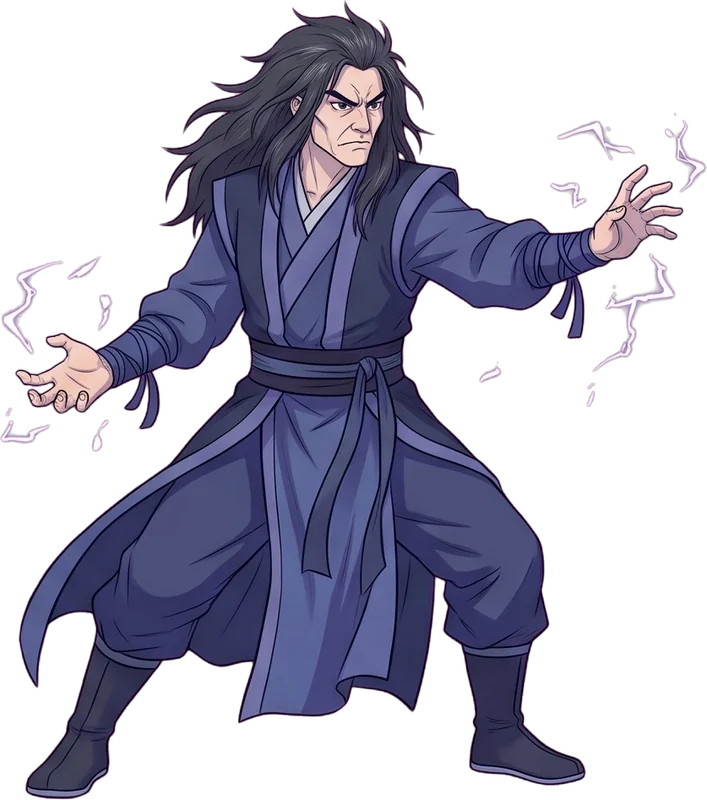
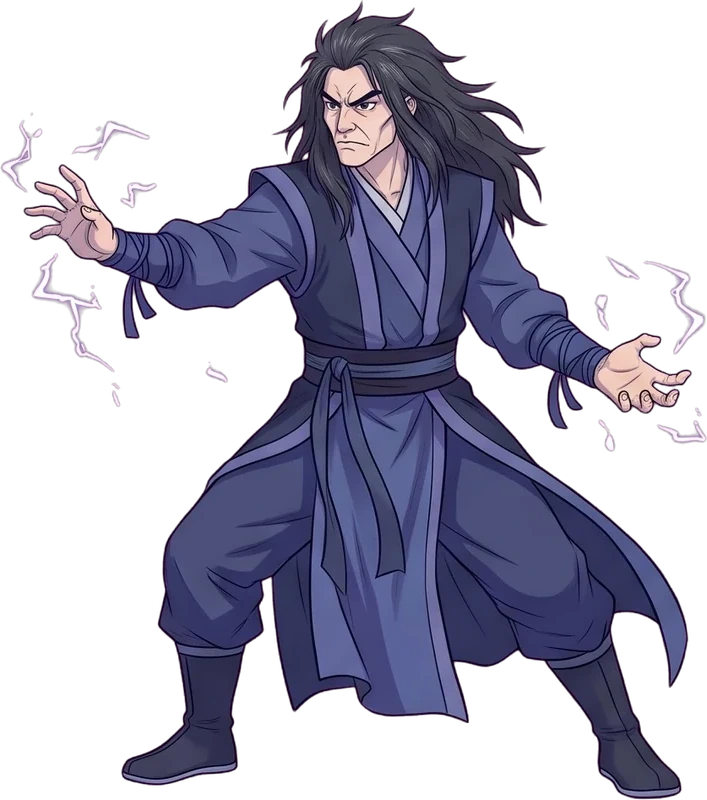
最終版136:所有敵人一律面向左(守山長老、九尾天狐、滅世火鳳翻轉;一般戰鬥移除多餘翻轉)
Claude-Session: https://claude.ai/code/session_01Eudv1bj25nFF4NszqJcvVs

diff --git a/index.html b/index.html
@@ -6960,7 +6960,7 @@ div.w-14:has(>.gi.gt){width:4.2rem;height:5.25rem}
   tArt = function (t, lock) { return GEN2[t.id] ? img(t.id, 'gt' + (lock ? ' gl' : '')) : ''; };
 })();
 
-const GEN3={"A0": "assets/GEN3/A0.webp?v=5607b08f", "A1": "assets/GEN3/A1.webp?v=c5097f82", "A2": "assets/GEN3/A2.webp?v=65906991", "A3": "assets/GEN3/A3.webp?v=ae27b3df", "A4": "assets/GEN3/A4.webp?v=1bfd872b", "A5": "assets/GEN3/A5.webp?v=528a4cf1", "A6": "assets/GEN3/A6.webp?v=d1795a92", "A7": "assets/GEN3/A7.webp?v=ec4f2db8", "T": "assets/GEN3/T.webp?v=ff90ccc1", "sk_sword": "assets/GEN3/sk_sword.webp?v=330c3c01", "sk_flow": "assets/GEN3/sk_flow.webp?v=f8713604", "sk_fire": "assets/GEN3/sk_fire.webp?v=ccfbc821", "sk_ice": "assets/GEN3/sk_ice.webp?v=d13956c6", "sk_guard": "assets/GEN3/sk_guard.webp?v=773bc330", "sk_heal": "assets/GEN3/sk_heal.webp?v=e1132e0d", "sk_thunder": "assets/GEN3/sk_thunder.webp?v=a58f89c1", "sk_blood": "assets/GEN3/sk_blood.webp?v=88508005", "sk_rage": "assets/GEN3/sk_rage.webp?v=be4f1276", "sk_swords": "assets/GEN3/sk_swords.webp?v=85881b44", "sk_quake": "assets/GEN3/sk_quake.webp?v=d8bc28e5", "sk_god": "assets/GEN3/sk_god.webp?v=44437ada", "sk_void": "assets/GEN3/sk_void.webp?v=4ec8adea", "sk_chaos": "assets/GEN3/sk_chaos.webp?v=79cd6bec", "S0": "assets/GEN3/S0.webp?v=20627470", "S1": "assets/GEN3/S1.webp?v=e62cd051", "S2": "assets/GEN3/S2.webp?v=b5e3e654", "M01": "assets/GEN3/M01.webp?v=287750db", "M02": "assets/GEN3/M02.webp?v=e9b9ad3f", "M03": "assets/GEN3/M03.webp?v=1310a148", "M04": "assets/GEN3/M04.webp?v=fbff499e", "M05": "assets/GEN3/M05.webp?v=61614376", "M06": "assets/GEN3/M06.webp?v=a006d08f", "M07": "assets/GEN3/M07.webp?v=09626d1e", "M08": "assets/GEN3/M08.webp?v=718aa370", "M09": "assets/GEN3/M09.webp?v=921d696a", "M10": "assets/GEN3/M10.webp?v=b8993edc", "M11": "assets/GEN3/M11.webp?v=ba05c495", "M12": "assets/GEN3/M12.webp?v=1088e247", "M13": "assets/GEN3/M13.webp?v=50d342c6", "M14": "assets/GEN3/M14.webp?v=0ef08f9f", "M15": "assets/GEN3/M15.webp?v=20459708", "M16": "assets/GEN3/M16.webp?v=748b6db0", "M17": "assets/GEN3/M17.webp?v=a48dbd91", "M18": "assets/GEN3/M18.webp?v=ef77529f", "K1": "assets/GEN3/K1.webp?v=f05b12f2", "K2": "assets/GEN3/K2.webp?v=12d35678", "K3": "assets/GEN3/K3.webp?v=432cff96", "K4": "assets/GEN3/K4.webp?v=5ec5b8bf", "K5": "assets/GEN3/K5.webp?v=a6909266", "K6": "assets/GEN3/K6.webp?v=92efc90f", "K7": "assets/GEN3/K7.webp?v=d2271abf", "K8": "assets/GEN3/K8.webp?v=5fc9f16c", "W1": "assets/GEN3/W1.webp?v=5cd5b0c9", "W2": "assets/GEN3/W2.webp?v=bdefedc1", "W3": "assets/GEN3/W3.webp?v=b71bea45", "W4": "assets/GEN3/W4.webp?v=9268bc2f", "W5": "assets/GEN3/W5.webp?v=0fd1dde0", "W6": "assets/GEN3/W6.webp?v=04b75816", "W7": "assets/GEN3/W7.webp?v=55d47994", "W8": "assets/GEN3/W8.webp?v=e576cb04"};
+const GEN3={"A0": "assets/GEN3/A0.webp?v=5607b08f", "A1": "assets/GEN3/A1.webp?v=c5097f82", "A2": "assets/GEN3/A2.webp?v=65906991", "A3": "assets/GEN3/A3.webp?v=ae27b3df", "A4": "assets/GEN3/A4.webp?v=1bfd872b", "A5": "assets/GEN3/A5.webp?v=528a4cf1", "A6": "assets/GEN3/A6.webp?v=d1795a92", "A7": "assets/GEN3/A7.webp?v=ec4f2db8", "T": "assets/GEN3/T.webp?v=ff90ccc1", "sk_sword": "assets/GEN3/sk_sword.webp?v=330c3c01", "sk_flow": "assets/GEN3/sk_flow.webp?v=f8713604", "sk_fire": "assets/GEN3/sk_fire.webp?v=ccfbc821", "sk_ice": "assets/GEN3/sk_ice.webp?v=d13956c6", "sk_guard": "assets/GEN3/sk_guard.webp?v=773bc330", "sk_heal": "assets/GEN3/sk_heal.webp?v=e1132e0d", "sk_thunder": "assets/GEN3/sk_thunder.webp?v=a58f89c1", "sk_blood": "assets/GEN3/sk_blood.webp?v=88508005", "sk_rage": "assets/GEN3/sk_rage.webp?v=be4f1276", "sk_swords": "assets/GEN3/sk_swords.webp?v=85881b44", "sk_quake": "assets/GEN3/sk_quake.webp?v=d8bc28e5", "sk_god": "assets/GEN3/sk_god.webp?v=44437ada", "sk_void": "assets/GEN3/sk_void.webp?v=4ec8adea", "sk_chaos": "assets/GEN3/sk_chaos.webp?v=79cd6bec", "S0": "assets/GEN3/S0.webp?v=20627470", "S1": "assets/GEN3/S1.webp?v=e62cd051", "S2": "assets/GEN3/S2.webp?v=b5e3e654", "M01": "assets/GEN3/M01.webp?v=287750db", "M02": "assets/GEN3/M02.webp?v=e9b9ad3f", "M03": "assets/GEN3/M03.webp?v=1310a148", "M04": "assets/GEN3/M04.webp?v=fbff499e", "M05": "assets/GEN3/M05.webp?v=61614376", "M06": "assets/GEN3/M06.webp?v=a006d08f", "M07": "assets/GEN3/M07.webp?v=09626d1e", "M08": "assets/GEN3/M08.webp?v=718aa370", "M09": "assets/GEN3/M09.webp?v=921d696a", "M10": "assets/GEN3/M10.webp?v=b8993edc", "M11": "assets/GEN3/M11.webp?v=ba05c495", "M12": "assets/GEN3/M12.webp?v=1088e247", "M13": "assets/GEN3/M13.webp?v=50d342c6", "M14": "assets/GEN3/M14.webp?v=0ef08f9f", "M15": "assets/GEN3/M15.webp?v=20459708", "M16": "assets/GEN3/M16.webp?v=748b6db0", "M17": "assets/GEN3/M17.webp?v=a48dbd91", "M18": "assets/GEN3/M18.webp?v=ef77529f", "K1": "assets/GEN3/K1.webp?v=f05b12f2", "K2": "assets/GEN3/K2.webp?v=12d35678", "K3": "assets/GEN3/K3.webp?v=432cff96", "K4": "assets/GEN3/K4.webp?v=5ec5b8bf", "K5": "assets/GEN3/K5.webp?v=a6909266", "K6": "assets/GEN3/K6.webp?v=92efc90f", "K7": "assets/GEN3/K7.webp?v=d2271abf", "K8": "assets/GEN3/K8.webp?v=5fc9f16c", "W1": "assets/GEN3/W1.webp?v=271e16c1", "W2": "assets/GEN3/W2.webp?v=bdefedc1", "W3": "assets/GEN3/W3.webp?v=b71bea45", "W4": "assets/GEN3/W4.webp?v=9268bc2f", "W5": "assets/GEN3/W5.webp?v=0fd1dde0", "W6": "assets/GEN3/W6.webp?v=04b75816", "W7": "assets/GEN3/W7.webp?v=55d47994", "W8": "assets/GEN3/W8.webp?v=3801709f"};
 
 /* ===== v7.6:地圖/戰鬥背景/角色/妖魔/神通改用生成圖 ===== */
 (function () {
@@ -6996,7 +6996,7 @@ const GEN3={"A0": "assets/GEN3/A0.webp?v=5607b08f", "A1": "assets/GEN3/A1.webp?v
     const p = stageEl('bs-p'), svg = p && p.querySelector('svg');
     if (svg) svg.outerHTML = `<img id="bs-ps" class="bs-ps" src="${G.S0}" alt="" draggable="false">`;
     const mk = monKey(B.monster), me = s.querySelector('.bs-memo');
-    if (me && mk) me.innerHTML = `<img class="bs-mi ${mk[0].toLowerCase()}${['K1', 'K7', 'M06', 'M07', 'M08', 'M10', 'W5', 'W8'].includes(mk) ? ' fl87' : ''}" src="${G[mk]}" alt="" draggable="false">`;
+    if (me && mk) me.innerHTML = `<img class="bs-mi ${mk[0].toLowerCase()}${['M06', 'M07', 'M10'].includes(mk) ? ' fl87' : ''}" src="${G[mk]}" alt="" draggable="false">`;
   };
   const pose = (n, ms) => { const im = stageEl('bs-ps'); if (!im) return; im.src = G[n]; clearTimeout(pose.t); pose.t = setTimeout(() => { const i2 = stageEl('bs-ps'); if (i2) i2.src = G.S0; }, ms / (state.battleSpeed || 1) + 60); };
   XT.fxAct76 = _pa => function (sk) { _pa.apply(this, arguments); if (!stageOn()) return; if (!sk || ['atk', 'burn', 'stun', 'drain'].includes(sk.type)) pose('S1', 560); };
@@ -14649,7 +14649,7 @@ header .flex.justify-between.mb-0\\.5{margin-bottom:1px!important}
 </script>
 <script>
 /* ===== v45:生成圖接線(怪物・宗門功法/信物・效果圖示・器紋石) ===== */
-window.A45={"ef_atk": "assets/A45/ef_atk.webp?v=964164cd", "ef_cd": "assets/A45/ef_cd.webp?v=bbcd2710", "ef_crit": "assets/A45/ef_crit.webp?v=da1df026", "ef_critd": "assets/A45/ef_critd.webp?v=a3d2c863", "ef_def": "assets/A45/ef_def.webp?v=cc41c032", "ef_dodge": "assets/A45/ef_dodge.webp?v=1cc3b13c", "ef_hp": "assets/A45/ef_hp.webp?v=25d8b6fb", "ef_ls": "assets/A45/ef_ls.webp?v=976955f6", "ef_qi": "assets/A45/ef_qi.webp?v=802688e4", "ef_skill": "assets/A45/ef_skill.webp?v=0af66ed2", "ef_stone": "assets/A45/ef_stone.webp?v=3c46a1e2", "gu": "assets/A45/gu.webp?v=191949ff", "j1": "assets/A45/j1.webp?v=3aec3560", "j2": "assets/A45/j2.webp?v=e6337b47", "j3": "assets/A45/j3.webp?v=d9cb4aef", "j4": "assets/A45/j4.webp?v=c046a2aa", "j5": "assets/A45/j5.webp?v=e563e74c", "j6": "assets/A45/j6.webp?v=70579031", "j7": "assets/A45/j7.webp?v=ad1b4171", "j8": "assets/A45/j8.webp?v=1c697d4a", "j9": "assets/A45/j9.webp?v=6a0a5731", "jy_cmd": "assets/A45/jy_cmd.webp?v=fb62097b", "jy_demon": "assets/A45/jy_demon.webp?v=b191ee64", "jy_guard": "assets/A45/jy_guard.webp?v=5d603746", "jy_rogue": "assets/A45/jy_rogue.webp?v=103a33a0", "mind": "assets/A45/mind.webp?v=7b12ba09", "situ": "assets/A45/situ.webp?v=bbe8ef8f", "sk_s_bc": "assets/A45/sk_s_bc.webp?v=e245af85", "sk_s_by": "assets/A45/sk_s_by.webp?v=b8288d4c", "sk_s_cy": "assets/A45/sk_s_cy.webp?v=2ccc84b6", "sk_s_dd": "assets/A45/sk_s_dd.webp?v=d179c8fd", "sk_s_dl": "assets/A45/sk_s_dl.webp?v=b3bad2b7", "sk_s_ds": "assets/A45/sk_s_ds.webp?v=1df50af9", "sk_s_dz": "assets/A45/sk_s_dz.webp?v=b048e4df", "sk_s_fx": "assets/A45/sk_s_fx.webp?v=7b7380f5", "sk_s_gc": "assets/A45/sk_s_gc.webp?v=dae25514", "sk_s_hd": "assets/A45/sk_s_hd.webp?v=99a7811b", "sk_s_jg": "assets/A45/sk_s_jg.webp?v=27ff85a0", "sk_s_jy": "assets/A45/sk_s_jy.webp?v=0dbef875", "sk_s_lh": "assets/A45/sk_s_lh.webp?v=0a9695ba", "sk_s_lx": "assets/A45/sk_s_lx.webp?v=0db3de80", "sk_s_lx2": "assets/A45/sk_s_lx2.webp?v=98c8425c", "sk_s_ms": "assets/A45/sk_s_ms.webp?v=126bf90e", "sk_s_nd": "assets/A45/sk_s_nd.webp?v=4e1e5c67", "sk_s_pl": "assets/A45/sk_s_pl.webp?v=9ab4e653", "sk_s_pt": "assets/A45/sk_s_pt.webp?v=1ee6435b", "sk_s_qy": "assets/A45/sk_s_qy.webp?v=be45df1b", "sk_s_rs": "assets/A45/sk_s_rs.webp?v=520138e7", "sk_s_sh": "assets/A45/sk_s_sh.webp?v=65a5a0a3", "sk_s_sx": "assets/A45/sk_s_sx.webp?v=92cf0f02", "sk_s_tb": "assets/A45/sk_s_tb.webp?v=7e24226a", "sk_s_tc": "assets/A45/sk_s_tc.webp?v=be83a286", "sk_s_tj": "assets/A45/sk_s_tj.webp?v=487f8967", "sk_s_tj2": "assets/A45/sk_s_tj2.webp?v=e9c5a0ba", "sk_s_tx": "assets/A45/sk_s_tx.webp?v=7690e37c", "sk_s_wf": "assets/A45/sk_s_wf.webp?v=1e2825a0", "sk_s_ws": "assets/A45/sk_s_ws.webp?v=d7231e57", "sk_s_xc": "assets/A45/sk_s_xc.webp?v=375adb95", "sk_s_xm": "assets/A45/sk_s_xm.webp?v=2af8c32f", "sk_s_xs": "assets/A45/sk_s_xs.webp?v=1f386bb5", "sk_s_xy": "assets/A45/sk_s_xy.webp?v=215c93c9", "sk_s_yc": "assets/A45/sk_s_yc.webp?v=0fd94347", "sk_s_yg": "assets/A45/sk_s_yg.webp?v=6dfac63c", "sk_s_ym": "assets/A45/sk_s_ym.webp?v=382abe0b", "sk_s_zj": "assets/A45/sk_s_zj.webp?v=f1fa172a", "sk_s_zx": "assets/A45/sk_s_zx.webp?v=acd98249", "sr0": "assets/A45/sr0.webp?v=a86b9b19", "sr1": "assets/A45/sr1.webp?v=506be0a0", "sr2": "assets/A45/sr2.webp?v=263caa64", "sr3": "assets/A45/sr3.webp?v=f351d4cf", "sr4": "assets/A45/sr4.webp?v=191585c5", "sr5": "assets/A45/sr5.webp?v=670564a6", "sr6": "assets/A45/sr6.webp?v=78ac99de", "sr7": "assets/A45/sr7.webp?v=2454d5c2", "tk_s_bc": "assets/A45/tk_s_bc.webp?v=b4195724", "tk_s_by": "assets/A45/tk_s_by.webp?v=89777b27", "tk_s_cy": "assets/A45/tk_s_cy.webp?v=68505574", "tk_s_dd": "assets/A45/tk_s_dd.webp?v=7662389d", "tk_s_dl": "assets/A45/tk_s_dl.webp?v=b257c47e", "tk_s_ds": "assets/A45/tk_s_ds.webp?v=860aaf47", "tk_s_dz": "assets/A45/tk_s_dz.webp?v=ff296ace", "tk_s_fx": "assets/A45/tk_s_fx.webp?v=d9fa681b", "tk_s_gc": "assets/A45/tk_s_gc.webp?v=6d39de4a", "tk_s_hd": "assets/A45/tk_s_hd.webp?v=aceffb4b", "tk_s_jg": "assets/A45/tk_s_jg.webp?v=c965e331", "tk_s_jy": "assets/A45/tk_s_jy.webp?v=1bd43353", "tk_s_lh": "assets/A45/tk_s_lh.webp?v=37315788", "tk_s_lx": "assets/A45/tk_s_lx.webp?v=be7c317c", "tk_s_lx2": "assets/A45/tk_s_lx2.webp?v=56384945", "tk_s_ms": "assets/A45/tk_s_ms.webp?v=a66be31f", "tk_s_nd": "assets/A45/tk_s_nd.webp?v=19252a5d", "tk_s_pl": "assets/A45/tk_s_pl.webp?v=c32ba6a5", "tk_s_pt": "assets/A45/tk_s_pt.webp?v=2ef87bdf", "tk_s_qy": "assets/A45/tk_s_qy.webp?v=3330ba0d", "tk_s_rs": "assets/A45/tk_s_rs.webp?v=30e60a58", "tk_s_sh": "assets/A45/tk_s_sh.webp?v=47014a2c", "tk_s_sx": "assets/A45/tk_s_sx.webp?v=9191a53d", "tk_s_tb": "assets/A45/tk_s_tb.webp?v=8417c545", "tk_s_tc": "assets/A45/tk_s_tc.webp?v=6d42e374", "tk_s_tj": "assets/A45/tk_s_tj.webp?v=8699518e", "tk_s_tj2": "assets/A45/tk_s_tj2.webp?v=f6eefd1e", "tk_s_tx": "assets/A45/tk_s_tx.webp?v=eca12e42", "tk_s_wf": "assets/A45/tk_s_wf.webp?v=7855a197", "tk_s_ws": "assets/A45/tk_s_ws.webp?v=f8a690a5", "tk_s_xc": "assets/A45/tk_s_xc.webp?v=e3944d17", "tk_s_xm": "assets/A45/tk_s_xm.webp?v=ddf4d623", "tk_s_xs": "assets/A45/tk_s_xs.webp?v=510b5c85", "tk_s_xy": "assets/A45/tk_s_xy.webp?v=5818c9a3", "tk_s_yc": "assets/A45/tk_s_yc.webp?v=71d84898", "tk_s_yg": "assets/A45/tk_s_yg.webp?v=5be5dd89", "tk_s_ym": "assets/A45/tk_s_ym.webp?v=89766431", "tk_s_zj": "assets/A45/tk_s_zj.webp?v=d3368f86", "tk_s_zx": "assets/A45/tk_s_zx.webp?v=46e308fb", "tr_body": "assets/A45/tr_body.webp?v=9d7fabec", "tr_magic": "assets/A45/tr_magic.webp?v=c629df5e", "tr_pill": "assets/A45/tr_pill.webp?v=93694988", "tr_sword": "assets/A45/tr_sword.webp?v=a1f295d4", "ui_adv": "assets/A45/ui_adv.webp?v=84c0caef", "ui_look": "assets/A45/ui_look.webp?v=7696a50d", "ui_map": "assets/A45/ui_map.webp?v=23ac3d19", "ui_rn": "assets/A45/ui_rn.webp?v=d208b194", "ui_set": "assets/A45/ui_set.webp?v=c6d18e5f", "ui_shield": "assets/A45/ui_shield.webp?v=609dfbd5", "yx0": "assets/A45/yx0.webp?v=3bbeabca", "yx1": "assets/A45/yx1.webp?v=cd301b36", "yx2": "assets/A45/yx2.webp?v=7ab7c4e9", "yx3": "assets/A45/yx3.webp?v=e92240ed", "yx4": "assets/A45/yx4.webp?v=02ed2dd4", "yx5": "assets/A45/yx5.webp?v=3511bbe3", "yx6": "assets/A45/yx6.webp?v=e1454023", "yx7": "assets/A45/yx7.webp?v=be22691e"};
+window.A45={"ef_atk": "assets/A45/ef_atk.webp?v=964164cd", "ef_cd": "assets/A45/ef_cd.webp?v=bbcd2710", "ef_crit": "assets/A45/ef_crit.webp?v=da1df026", "ef_critd": "assets/A45/ef_critd.webp?v=a3d2c863", "ef_def": "assets/A45/ef_def.webp?v=cc41c032", "ef_dodge": "assets/A45/ef_dodge.webp?v=1cc3b13c", "ef_hp": "assets/A45/ef_hp.webp?v=25d8b6fb", "ef_ls": "assets/A45/ef_ls.webp?v=976955f6", "ef_qi": "assets/A45/ef_qi.webp?v=802688e4", "ef_skill": "assets/A45/ef_skill.webp?v=0af66ed2", "ef_stone": "assets/A45/ef_stone.webp?v=3c46a1e2", "gu": "assets/A45/gu.webp?v=191949ff", "j1": "assets/A45/j1.webp?v=3aec3560", "j2": "assets/A45/j2.webp?v=e6337b47", "j3": "assets/A45/j3.webp?v=d9cb4aef", "j4": "assets/A45/j4.webp?v=c046a2aa", "j5": "assets/A45/j5.webp?v=e563e74c", "j6": "assets/A45/j6.webp?v=70579031", "j7": "assets/A45/j7.webp?v=ad1b4171", "j8": "assets/A45/j8.webp?v=1c697d4a", "j9": "assets/A45/j9.webp?v=6a0a5731", "jy_cmd": "assets/A45/jy_cmd.webp?v=fb62097b", "jy_demon": "assets/A45/jy_demon.webp?v=b191ee64", "jy_guard": "assets/A45/jy_guard.webp?v=5d603746", "jy_rogue": "assets/A45/jy_rogue.webp?v=103a33a0", "mind": "assets/A45/mind.webp?v=7b12ba09", "situ": "assets/A45/situ.webp?v=bbe8ef8f", "sk_s_bc": "assets/A45/sk_s_bc.webp?v=e245af85", "sk_s_by": "assets/A45/sk_s_by.webp?v=b8288d4c", "sk_s_cy": "assets/A45/sk_s_cy.webp?v=2ccc84b6", "sk_s_dd": "assets/A45/sk_s_dd.webp?v=d179c8fd", "sk_s_dl": "assets/A45/sk_s_dl.webp?v=b3bad2b7", "sk_s_ds": "assets/A45/sk_s_ds.webp?v=1df50af9", "sk_s_dz": "assets/A45/sk_s_dz.webp?v=b048e4df", "sk_s_fx": "assets/A45/sk_s_fx.webp?v=7b7380f5", "sk_s_gc": "assets/A45/sk_s_gc.webp?v=dae25514", "sk_s_hd": "assets/A45/sk_s_hd.webp?v=99a7811b", "sk_s_jg": "assets/A45/sk_s_jg.webp?v=27ff85a0", "sk_s_jy": "assets/A45/sk_s_jy.webp?v=0dbef875", "sk_s_lh": "assets/A45/sk_s_lh.webp?v=0a9695ba", "sk_s_lx": "assets/A45/sk_s_lx.webp?v=0db3de80", "sk_s_lx2": "assets/A45/sk_s_lx2.webp?v=98c8425c", "sk_s_ms": "assets/A45/sk_s_ms.webp?v=126bf90e", "sk_s_nd": "assets/A45/sk_s_nd.webp?v=4e1e5c67", "sk_s_pl": "assets/A45/sk_s_pl.webp?v=9ab4e653", "sk_s_pt": "assets/A45/sk_s_pt.webp?v=1ee6435b", "sk_s_qy": "assets/A45/sk_s_qy.webp?v=be45df1b", "sk_s_rs": "assets/A45/sk_s_rs.webp?v=520138e7", "sk_s_sh": "assets/A45/sk_s_sh.webp?v=65a5a0a3", "sk_s_sx": "assets/A45/sk_s_sx.webp?v=92cf0f02", "sk_s_tb": "assets/A45/sk_s_tb.webp?v=7e24226a", "sk_s_tc": "assets/A45/sk_s_tc.webp?v=be83a286", "sk_s_tj": "assets/A45/sk_s_tj.webp?v=487f8967", "sk_s_tj2": "assets/A45/sk_s_tj2.webp?v=e9c5a0ba", "sk_s_tx": "assets/A45/sk_s_tx.webp?v=7690e37c", "sk_s_wf": "assets/A45/sk_s_wf.webp?v=1e2825a0", "sk_s_ws": "assets/A45/sk_s_ws.webp?v=d7231e57", "sk_s_xc": "assets/A45/sk_s_xc.webp?v=375adb95", "sk_s_xm": "assets/A45/sk_s_xm.webp?v=2af8c32f", "sk_s_xs": "assets/A45/sk_s_xs.webp?v=1f386bb5", "sk_s_xy": "assets/A45/sk_s_xy.webp?v=215c93c9", "sk_s_yc": "assets/A45/sk_s_yc.webp?v=0fd94347", "sk_s_yg": "assets/A45/sk_s_yg.webp?v=6dfac63c", "sk_s_ym": "assets/A45/sk_s_ym.webp?v=382abe0b", "sk_s_zj": "assets/A45/sk_s_zj.webp?v=f1fa172a", "sk_s_zx": "assets/A45/sk_s_zx.webp?v=acd98249", "sr0": "assets/A45/sr0.webp?v=a86b9b19", "sr1": "assets/A45/sr1.webp?v=506be0a0", "sr2": "assets/A45/sr2.webp?v=263caa64", "sr3": "assets/A45/sr3.webp?v=f351d4cf", "sr4": "assets/A45/sr4.webp?v=191585c5", "sr5": "assets/A45/sr5.webp?v=670564a6", "sr6": "assets/A45/sr6.webp?v=78ac99de", "sr7": "assets/A45/sr7.webp?v=2454d5c2", "tk_s_bc": "assets/A45/tk_s_bc.webp?v=b4195724", "tk_s_by": "assets/A45/tk_s_by.webp?v=89777b27", "tk_s_cy": "assets/A45/tk_s_cy.webp?v=68505574", "tk_s_dd": "assets/A45/tk_s_dd.webp?v=7662389d", "tk_s_dl": "assets/A45/tk_s_dl.webp?v=b257c47e", "tk_s_ds": "assets/A45/tk_s_ds.webp?v=860aaf47", "tk_s_dz": "assets/A45/tk_s_dz.webp?v=ff296ace", "tk_s_fx": "assets/A45/tk_s_fx.webp?v=d9fa681b", "tk_s_gc": "assets/A45/tk_s_gc.webp?v=6d39de4a", "tk_s_hd": "assets/A45/tk_s_hd.webp?v=aceffb4b", "tk_s_jg": "assets/A45/tk_s_jg.webp?v=c965e331", "tk_s_jy": "assets/A45/tk_s_jy.webp?v=1bd43353", "tk_s_lh": "assets/A45/tk_s_lh.webp?v=37315788", "tk_s_lx": "assets/A45/tk_s_lx.webp?v=be7c317c", "tk_s_lx2": "assets/A45/tk_s_lx2.webp?v=56384945", "tk_s_ms": "assets/A45/tk_s_ms.webp?v=a66be31f", "tk_s_nd": "assets/A45/tk_s_nd.webp?v=19252a5d", "tk_s_pl": "assets/A45/tk_s_pl.webp?v=c32ba6a5", "tk_s_pt": "assets/A45/tk_s_pt.webp?v=2ef87bdf", "tk_s_qy": "assets/A45/tk_s_qy.webp?v=3330ba0d", "tk_s_rs": "assets/A45/tk_s_rs.webp?v=30e60a58", "tk_s_sh": "assets/A45/tk_s_sh.webp?v=47014a2c", "tk_s_sx": "assets/A45/tk_s_sx.webp?v=9191a53d", "tk_s_tb": "assets/A45/tk_s_tb.webp?v=8417c545", "tk_s_tc": "assets/A45/tk_s_tc.webp?v=6d42e374", "tk_s_tj": "assets/A45/tk_s_tj.webp?v=8699518e", "tk_s_tj2": "assets/A45/tk_s_tj2.webp?v=f6eefd1e", "tk_s_tx": "assets/A45/tk_s_tx.webp?v=eca12e42", "tk_s_wf": "assets/A45/tk_s_wf.webp?v=7855a197", "tk_s_ws": "assets/A45/tk_s_ws.webp?v=f8a690a5", "tk_s_xc": "assets/A45/tk_s_xc.webp?v=e3944d17", "tk_s_xm": "assets/A45/tk_s_xm.webp?v=ddf4d623", "tk_s_xs": "assets/A45/tk_s_xs.webp?v=510b5c85", "tk_s_xy": "assets/A45/tk_s_xy.webp?v=5818c9a3", "tk_s_yc": "assets/A45/tk_s_yc.webp?v=71d84898", "tk_s_yg": "assets/A45/tk_s_yg.webp?v=5be5dd89", "tk_s_ym": "assets/A45/tk_s_ym.webp?v=89766431", "tk_s_zj": "assets/A45/tk_s_zj.webp?v=d3368f86", "tk_s_zx": "assets/A45/tk_s_zx.webp?v=46e308fb", "tr_body": "assets/A45/tr_body.webp?v=9d7fabec", "tr_magic": "assets/A45/tr_magic.webp?v=c629df5e", "tr_pill": "assets/A45/tr_pill.webp?v=93694988", "tr_sword": "assets/A45/tr_sword.webp?v=a1f295d4", "ui_adv": "assets/A45/ui_adv.webp?v=84c0caef", "ui_look": "assets/A45/ui_look.webp?v=7696a50d", "ui_map": "assets/A45/ui_map.webp?v=23ac3d19", "ui_rn": "assets/A45/ui_rn.webp?v=d208b194", "ui_set": "assets/A45/ui_set.webp?v=c6d18e5f", "ui_shield": "assets/A45/ui_shield.webp?v=609dfbd5", "yx0": "assets/A45/yx0.webp?v=3bbeabca", "yx1": "assets/A45/yx1.webp?v=cd301b36", "yx2": "assets/A45/yx2.webp?v=7ab7c4e9", "yx3": "assets/A45/yx3.webp?v=95e6aabe", "yx4": "assets/A45/yx4.webp?v=02ed2dd4", "yx5": "assets/A45/yx5.webp?v=3511bbe3", "yx6": "assets/A45/yx6.webp?v=e1454023", "yx7": "assets/A45/yx7.webp?v=be22691e"};
 (function(){
   const A=window.A45;
   const st=document.createElement('style');
